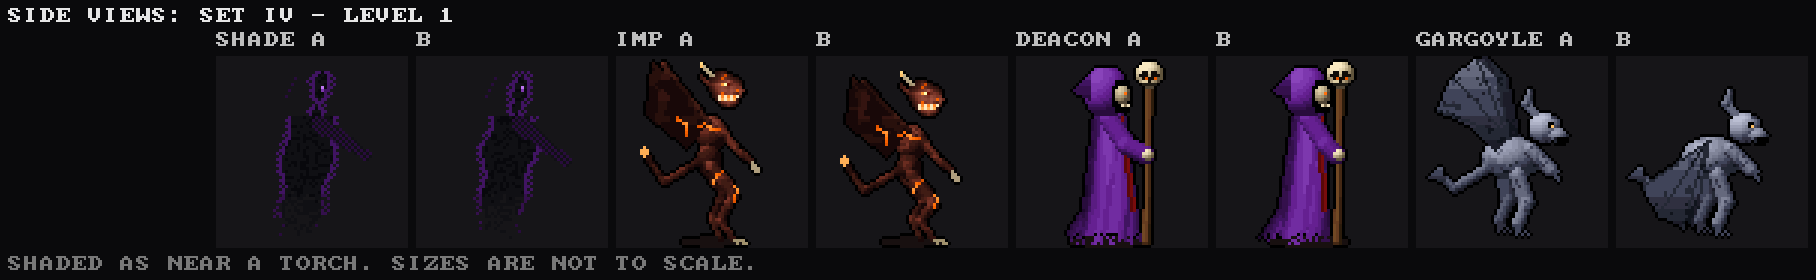
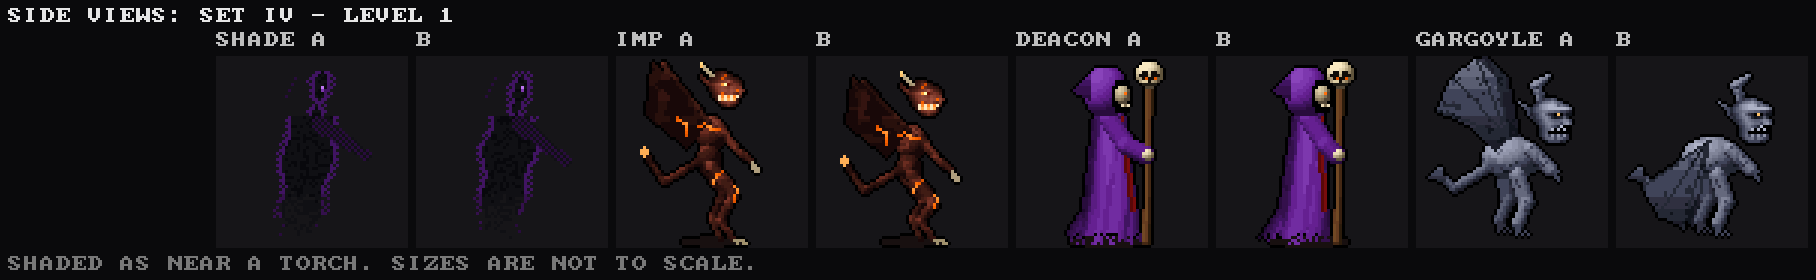
Art pass: the gargoyle, a grotesque in the walls' own stone
A hand-drawn face (GARG_FACE, GARG_SIDE): two heavy brow ridges over deep
eyes, a flat snout, a lipless snarl with tusks, the mouth a rainspout's;
fin ears swept back and bull's horns, the right one broken. Slab shoulders
and a hunched chest; on its plinth its wings fold up round it like a cloak,
in flight they spread, torn. Rain has stained it from the eyes and mouth
down and lichen sits in its hollows; awake, its cracks are lit. Perched, its
eyes are blank stone. Its ranks are its stone: moss, frost, rust, black
basalt veined with a cold light, gold.

UBSan found a pointer formed past the sprite in the rain's loop; fixed.
ASan clean; a dream run's events are unchanged.

Claude-Session: https://claude.ai/code/session_015ifzKucNXU48yoPLrSFXC9

Changed region(s): [[0.9251, 0.2571, 0.9868, 0.5143], [0.8326, 0.2571, 0.8634, 0.5143]]

diff --git a/src/crawl_art.c b/src/crawl_art.c
@@ -997,7 +997,7 @@ static void grid_stamp(const char *const *g, int w, int h, int x0, int y0, int r
             char ch = g[y][mirror ? w - 1 - x : x];
             int px = x0 + x, py = y0 + y;
             if (ch == '.') continue;
-            if (ch == '@') { cv_eye(px, py, eye); continue; }
+            if (ch == '@') { if (eye) cv_eye(px, py, eye); else cv_px(px, py, (uint8_t)(r1 + 4)); continue; }   /* eye 0: blank, a statue's */
             if (ch == '0') cv_px(px, py, 0);
             else if (ch >= '1' && ch <= '9') cv_px(px, py, (uint8_t)(r1 + ch - '0'));
             else if (ch >= 'a' && ch <= 'f') cv_px(px, py, (uint8_t)(r1 + ch - 'a' + 10));
@@ -4929,83 +4929,164 @@ static void spr_ember(int id, int frame) {
     cv_store(id);
 }
 
-/* The gargoyle: carved stone (R_STONE, PF_STONE: it is the same stone as the walls), winged and
- * horned. pose 0 perched on its plinth, asleep (the statue in an alcove looks just like it); 1-2
- * flying, wings up and down; 3 swooping, claws first; 4 broken. */
+/* The gargoyle (docs/InitialArtPass.md section 8): a grotesque in the walls' own stone (R_STONE, PF_STONE), weathered: a
+ * heavy brow over deep-set eyes, a flat snout, a lipless snarl with tusks, the mouth a rainspout's; fin ears swept back,
+ * bull's horns curving forward; slab shoulders, wings of bat's bones, torn. Rain has stained it from the eyes and mouth
+ * down, lichen sits in its hollows. pose 0 perched on its plinth, asleep, its eyes blank stone (and the statues in the
+ * alcoves are this); 1-2 flying, wings up and down, its cracks alight; 3 swooping, claws first; 4 broken. */
+static const char *const GARG_FACE[17] = {
+    "...4567d7654...", "..45799d99875..", ".356ab989ba653.", "36bcddc8cddcb63", "245677666776542", ".310@04340@013.",
+    ".4628347438264.", "..57289998275..", "..46289a98264..", ".3462708072643.", ".3a635787536a3.", ".3e20d0d0d02e3.",
+    ".2d000000000d2.", ".3c06b0b0b60c3.", "..4a789a987a4..", "...357898753...", "....2456542....",
+};
+static const char *const GARG_SIDE[15] = {
+    "....45676.....", "..4689ab976...", ".469bcddcb975.", "3579bcddddddc8", "35789988776542", "2468a7420@0431",
+    ".3579a8742373.", "..468a98778a96", "..3579a9889ab7", "...4689753e00.", "...3578d0d0d0.", "...3570000000.",
+    "...3586b6b6b4.", "....4789a9864.", ".....3566543..",
+};
+static void garg_head(float hy, int awake) {                      /* horns, fin ears, then the face */
+    for (int s = -1; s <= 1; s += 2) {
+        float ex[6] = { 32 + s * 6.0f, hy + 5, 32 + s * 13.0f, hy + 1, 32 + s * 7.0f, hy + 10 };   /* a fin ear, swept back */
+        cv_poly(ex, 3, R_STONE, 0.15f, 0.55f, hy + 1, 9);
+        cv_line(32 + s * 7.0f, hy + 6, 32 + s * 11.0f, hy + 3, sh(R_STONE, 0.1f));
+        cv_capsule(32 + s * 5.0f, hy + 2, 32 + s * 10.0f, hy - 2, 1.7f, R_STONE, 0.2f, 0.8f);   /* a bull's horn, out and forward */
+        cv_capsule(32 + s * 10.0f, hy - 2, 32 + s * 13.0f, hy + 1, 1.3f, R_STONE, 0.2f, 0.75f);
+        if (s < 0) cv_capsule(32 + s * 13.0f, hy + 1, 32 + s * 12.5f, hy + 4, 0.9f, R_STONE, 0.25f, 0.8f);   /* the right one broken short */
+    }
+    grid_stamp(GARG_FACE, 15, 17, 25, (int)hy, R_STONE, R_STONE, awake ? (uint8_t)(R_FLAME + 12) : 0, 0);
+}
+static void garg_wing_front(int s, float sx, float sy, float wx, float wy, float tips[3][2], float lo, float hi) {   /* membrane, struts, a torn hem */
+    for (int f = 0; f < 3; f++) {
+        float nx = f < 2 ? tips[f + 1][0] : sx, ny = f < 2 ? tips[f + 1][1] : sy + 6.0f;
+        float m[8] = { wx, wy, tips[f][0], tips[f][1], nx, ny, sx, sy };
+        cv_poly(m, 4, R_STONE, lo, hi, wy < tips[f][1] ? wy : tips[f][1], 34);
+        cv_flat((tips[f][0] + nx) * 0.5f, (tips[f][1] + ny) * 0.5f + 1.2f, 1.8f, 1.6f, C_CLEAR);   /* a scallop torn out */
+    }
+    cv_capsule(sx, sy, wx, wy, 1.6f, R_STONE, lo + 0.1f, hi + 0.2f);
+    for (int f = 0; f < 3; f++) cv_capsule(wx, wy, tips[f][0], tips[f][1], 0.8f, R_STONE, lo + 0.05f, hi + 0.1f);
+    cv_line(wx, wy, wx + s * 1.0f, wy - 3.0f, sh(R_STONE, 0.7f));   /* the claw at its wrist */
+}
+static void garg_weather(int awake, uint32_t seed) {               /* rain stains, lichen, chips; and awake, its cracks lit */
+    for (int y = 0; y < TS; y++)
+        for (int x = 0; x < TS; x++) {
+            uint8_t *p = &cv_sprite[y * TS + x];
+            if (*p <= R_STONE || *p >= R_STONE + 16 || y >= 52) continue;
+            float n = fbm(x / 4.0f, y / 4.0f, 16, seed);
+            int face = x >= 25 && x < 40 && y >= 2 && y < 34;
+            if (n < (face ? 0.18f : 0.3f)) *p = (uint8_t)(*p - 2 < R_STONE + 1 ? R_STONE + 1 : *p - 2);
+            else if (!face && h01(x, y, seed + 2) > 0.965f) *p = (uint8_t)(*p - 4 < R_STONE + 1 ? R_STONE + 1 : *p - 4);
+            if (*p <= R_STONE + 4 && h01(x, y, seed + 4) > 0.86f) *p = sh(R_MOSS, 0.12f + 0.12f * h01(x, y, seed + 5));   /* lichen in the hollows */
+        }
+    for (int k = 0; k < 4; k++) {                                  /* rain, run down from the eyes and the mouth's corners */
+        static const int SRC[4] = { 29, 35, 27, 37 };
+        int x = SRC[k], y = 5;
+        while (y < TS && cv_sprite[y * TS + x] != 0) y++;          /* below the first dark of the face */
+        for (int j = 1; j < 9 + (k & 1) * 4 && y + j < TS; j++) {
+            uint8_t *p = &cv_sprite[(y + j) * TS + x];
+            if (*p > R_STONE && *p < R_STONE + 16) *p = (uint8_t)(*p - 3 < R_STONE + 1 ? R_STONE + 1 : *p - 3);
+        }
+    }
+    if (awake)
+        for (int k = 0; k < 4; k++) {                              /* the cracks alight, dimly, as it wakes */
+            float x = 20 + 24 * h01(k, 1, seed + 7), y = 30 + 16 * h01(k, 2, seed + 7), a = h01(k, 3, seed + 7) * TAU_F;
+            for (int i = 0; i < 7; i++) {
+                a += (h01(k, i + 4, seed + 7) - 0.5f) * 1.2f; x += cosf(a); y += sinf(a);
+                uint8_t c = cv_sprite[(int)y * TS + (int)x];
+                if (c > R_STONE && c < R_STONE + 16) cv_px((int)x, (int)y, (uint8_t)(R_FLAME + 3 + (i & 1) * 2));
+            }
+        }
+}
 static void spr_gargoyle(int id, int pose) {
     cv_begin(cv_sprite, TS, TS);
-    if (pose == 4) {
+    if (pose == 4) {                                               /* broken: rubble, a wing, the face looking up */
         cv_flat(32, 61.5f, 24, 2.5f, R_WARM + 1);
-        for (int i = 0; i < 9; i++) {
-            float x = 32 + (h01(i, 1, 541) - 0.5f) * 40, y = 56 + 6 * h01(i, 2, 541);
-            cv_ellipse(x, y, 2.5f + 3.0f * h01(i, 3, 541), 2.0f + 2.0f * h01(i, 4, 541), R_STONE, 0.1f, 0.65f);
+        for (int i = 0; i < 10; i++) {
+            float x = 32 + (h01(i, 1, 541) - 0.5f) * 44, y = 56 + 6 * h01(i, 2, 541);
+            cv_ellipse(x, y, 2.5f + 3.0f * h01(i, 3, 541), 2.0f + 2.0f * h01(i, 4, 541), R_STONE, 0.1f, 0.6f);
         }
-        float wv[8] = { 34, 50, 52, 44, 50, 54, 38, 57 };          /* a broken wing */
-        cv_poly(wv, 4, R_STONE, 0.15f, 0.55f, 44, 13);
-        cv_ellipse(18, 53, 5.5f, 5.0f, R_STONE, 0.15f, 0.7f);      /* the head, face up */
-        cv_capsule(15, 48, 13, 44, 1.2f, R_STONE, 0.2f, 0.6f);
+        float wv[8] = { 34, 50, 54, 42, 52, 54, 38, 57 };
+        cv_poly(wv, 4, R_STONE, 0.12f, 0.5f, 42, 15);
+        grid_stamp(GARG_FACE, 15, 17, 4, 44, R_STONE, R_STONE, 0, 0);
         cv_outline(0); cv_store(id); return;
     }
     int perch = pose == 0, swoop = pose == 3;
-    float by = perch ? 0.0f : -6.0f;                                /* it rides higher when it flies */
-    if (perch) {                                                    /* the plinth */
+    float hy = perch ? 13.0f : 3.0f;                               /* the head's top: lowered asleep, up awake */
+    if (perch) {                                                   /* the plinth */
         for (int y = 52; y < 64; y++)
-            for (int x = 18; x <= 46; x++) {
-                float nx = (x + 0.5f - 32) / 14.0f;
-                stone_px(x, y, nx, y < 54 ? 0.15f : 0.0f, 543);
-            }
-    }
-    /* wings: folded round it, or spread */
-    for (int s = -1; s <= 1; s += 2) {
-        if (perch) {
-            float wv[8] = { 32 + s * 8, 26, 32 + s * 17, 18, 32 + s * 16, 46, 32 + s * 9, 50 };
-            cv_poly(wv, 4, R_STONE, 0.1f, 0.5f, 18, 32);
-        } else {
-            float tip = pose == 1 ? -2.0f : (pose == 2 ? 26.0f : 6.0f), out = swoop ? 22.0f : 30.0f;
-            float wv[12] = { 32 + s * 6, 30 + by, 32 + s * 14, 16 + by + tip * 0.4f, 32 + s * out, 6 + by + tip, 32 + s * (out - 3), 22 + by + tip * 0.6f,
-                             32 + s * (out - 6), 30 + by + tip * 0.4f, 32 + s * 10, 40 + by };
-            cv_poly(wv, 6, R_STONE, 0.1f, 0.6f, 6 + by + tip, 34);
-            for (int r = 0; r < 3; r++)                             /* ribs of the wing */
-                cv_line(32 + s * 8, 30 + by, 32 + s * (out - r * 4), 8 + by + tip + r * 6, sh(R_STONE, 0.15f));
+            for (int x = 18; x <= 46; x++) stone_px(x, y, (x + 0.5f - 32) / 14.0f, y < 54 ? 0.15f : 0.0f, 543);
+        for (int s = -1; s <= 1; s += 2) {                         /* wings folded up round it, high as a cloak */
+            float wv[10] = { 32 + s * 9.0f, hy + 20, 32 + s * 17.0f, hy - 6, 32 + s * 20.0f, hy + 6, 32 + s * 17.0f, 51, 32 + s * 10.0f, 51 };
+            cv_poly(wv, 5, R_STONE, 0.08f, 0.45f, hy - 6, 50);
+            cv_line(32 + s * 17.0f, hy - 6, 32 + s * 16.0f, 50, sh(R_STONE, 0.12f));
+            cv_line(32 + s * 18.0f, hy + 2, 32 + s * 12.0f, 50, sh(R_STONE, 0.15f));
+        }
+        cv_ellipse(32, hy + 21, 11.0f, 4.0f, R_STONE, 0.2f, 0.75f);   /* slab shoulders, a hunched back */
+        cv_ellipse(32, hy + 29, 8.0f, 8.0f, R_STONE, 0.15f, 0.65f);
+        for (int s = -1; s <= 1; s += 2) {                         /* haunches folded, claws over the plinth's edge, hands on it */
+            cv_ellipse(32 + s * 8.0f, 45, 4.5f, 5.0f, R_STONE, 0.15f, 0.7f);
+            cv_capsule(32 + s * 8.0f, 48, 32 + s * 8.5f, 52, 2.2f, R_STONE, 0.15f, 0.6f);
+            for (int c = -1; c <= 1; c++) cv_line(32 + s * 8.5f + c * 1.4f, 52, 32 + s * 8.5f + c * 1.8f, 55, sh(R_STONE, 0.3f));
+            cv_capsule(32 + s * 9.0f, hy + 22, 32 + s * 4.0f, 46, 2.2f, R_STONE, 0.2f, 0.7f);
+            for (int c = -1; c <= 1; c++) cv_line(32 + s * 4.0f, 46, 32 + s * 4.0f + c * 1.3f, 50, sh(R_STONE, 0.3f));
+        }
+    } else {
+        float tip = pose == 1 ? -4.0f : (pose == 2 ? 14.0f : 4.0f), out = swoop ? 22.0f : 30.0f;
+        for (int s = -1; s <= 1; s += 2) {                         /* the wings, spread (swept back in a swoop) */
+            float tips[3][2] = { { 32 + s * out, hy + 6 + tip }, { 32 + s * (out - 4.0f), hy + 20 + tip * 0.5f }, { 32 + s * (out - 12.0f), hy + 28 } };
+            garg_wing_front(s, 32 + s * 8.0f, hy + 20, 32 + s * (out - 10.0f), hy + tip * 0.6f, tips, 0.08f, 0.4f);
+        }
+        for (int s = -1; s <= 1; s += 2) {                         /* legs: hanging, or thrust forward with the talons out */
+            float kx = 32 + s * 8.0f, ky = swoop ? hy + 33 : hy + 40, fx = 32 + s * (swoop ? 11.0f : 7.0f), fy = swoop ? hy + 42 : hy + 50;
+            cv_capsule(32 + s * 5.0f, hy + 33, kx, ky, 3.0f, R_STONE, 0.15f, 0.7f);
+            cv_capsule(kx, ky, fx, fy, 2.2f, R_STONE, 0.15f, 0.65f);
+            for (int c = -1; c <= 1; c++) cv_line(fx, fy, fx + c * 2.0f, fy + 3.5f, sh(R_STONE, 0.35f));
+        }
+        cv_ellipse(32, hy + 21, 11.0f, 4.0f, R_STONE, 0.2f, 0.8f);  /* slab shoulders, the chest */
+        cv_ellipse(32, hy + 28, 8.0f, 8.5f, R_STONE, 0.15f, 0.7f);
+        for (int r = 0; r < 3; r++) cv_line(27, hy + 25 + r * 3, 37, hy + 25 + r * 3, sh(R_STONE, 0.12f));
+        for (int s = -1; s <= 1; s += 2) {                         /* arms: claws ahead in a swoop, else low */
+            float ex = 32 + s * (swoop ? 15.0f : 13.0f), ey = swoop ? hy + 16 : hy + 29, hx2 = 32 + s * (swoop ? 14.0f : 11.0f), hy2 = swoop ? hy + 8 : hy + 37;
+            cv_capsule(32 + s * 10.0f, hy + 21, ex, ey, 2.3f, R_STONE, 0.2f, 0.75f);
+            cv_capsule(ex, ey, hx2, hy2, 1.9f, R_STONE, 0.2f, 0.7f);
+            for (int c = -1; c <= 1; c++) cv_line(hx2, hy2, hx2 + c * 1.6f, hy2 + (swoop ? -3.5f : 3.5f), sh(R_STONE, 0.35f));
         }
     }
-    /* legs and claws */
-    for (int s = -1; s <= 1; s += 2) {
-        float kx = 32 + s * 8, ky = perch ? 46.0f : 46.0f + by, fx = 32 + s * 7, fy = perch ? 52.0f : (swoop ? 40.0f + by : 56.0f + by);
-        if (swoop) { kx = 32 + s * 6; ky = 38 + by; fx = 32 + s * 9; fy = 48 + by; }
-        cv_capsule(32 + s * 5, 40 + by * (perch ? 0 : 1), kx, ky, 3.0f, R_STONE, 0.2f, 0.75f);
-        cv_capsule(kx, ky, fx, fy, 2.2f, R_STONE, 0.2f, 0.7f);
-        for (int c = -1; c <= 1; c++) cv_line(fx, fy, fx + c * 2.0f, fy + 3.5f, sh(R_STONE, 0.35f));
-    }
-    cv_ellipse(32, 36 + (perch ? 0 : by), 9.0f, 10.0f, R_STONE, 0.2f, 0.85f);   /* the body, hunched */
-    for (int s = -1; s <= 1; s += 2) {                              /* arms: on its knees, or reaching */
-        float hx = swoop ? 32 + s * 12.0f : 32 + s * 6.0f, hy = swoop ? 30.0f + by : (perch ? 44.0f : 42.0f + by);
-        cv_capsule(32 + s * 8, 30 + (perch ? 0 : by), hx, hy, 2.2f, R_STONE, 0.25f, 0.8f);
-        for (int c = -1; c <= 1; c++) cv_line(hx, hy, hx + c * 1.5f + s * 1.0f, hy + (swoop ? -3.0f : 3.0f), sh(R_STONE, 0.35f));
-    }
-    float hx = 32, hy = (perch ? 22.0f : 20.0f + by) + (perch ? 2.0f : 0.0f);   /* the head: lowered asleep, up awake */
-    for (int s = -1; s <= 1; s += 2) {                              /* horns, curling back */
-        cv_capsule(hx + s * 4, hy - 4, hx + s * 8, hy - 9, 1.6f, R_STONE, 0.2f, 0.75f);
-        cv_capsule(hx + s * 8, hy - 9, hx + s * 7, hy - 13, 1.1f, R_STONE, 0.2f, 0.7f);
-    }
-    cv_ellipse(hx, hy, 6.5f, 6.0f, R_STONE, 0.25f, 0.95f);
-    cv_ellipse(hx, hy + 4, 4.5f, 2.8f, R_STONE, 0.2f, 0.8f);       /* muzzle */
-    for (int s = -1; s <= 1; s += 2) {
-        cv_flat(hx + s * 2.5f, hy - 1, 1.5f, 1.0f, perch ? sh(R_STONE, 0.1f) : 0);
-        if (!perch) cv_eye((int)(hx + s * 2.5f), (int)(hy - 1), (uint8_t)(R_FLAME + 12));
-    }
-    cv_flat(hx, hy + 5, swoop ? 3.0f : 2.0f, swoop ? 1.6f : 0.6f, 0);
-    if (swoop) for (int i = -1; i <= 1; i += 2) cv_px((int)hx + i * 2, (int)hy + 4, sh(R_STONE, 0.9f));
-    for (int y = 0; y < TS; y++)                                    /* weathering on the stone */
-        for (int x = 0; x < TS; x++) {
-            uint8_t *p = &cv_sprite[y * TS + x];
-            if (*p < R_STONE || *p >= R_STONE + 16 || (perch && y >= 52)) continue;
-            float n = fbm(x / 4.0f, y / 4.0f, 16, 545);
-            if (n < 0.3f) *p = (uint8_t)(*p - 2 < R_STONE + 1 ? R_STONE + 1 : *p - 2);
-            else if (h01(x, y, 547) > 0.96f) *p = (uint8_t)(*p - 4 < R_STONE + 1 ? R_STONE + 1 : *p - 4);
-        }
+    garg_head(hy, !perch);
+    garg_weather(!perch, 545);
     cv_outline(0);
     cv_store(id);
+}
+
+/* the gargoyle's ranks are its stone (docs/InitialArtPass.md section 8): II moss on limestone and its wings torn, III
+ * frost-glazed and a horn chipped, IV red with rust run down it and a wing cracked, V black basalt veined with a cold
+ * light under an iron collar, gilded marble with gold in its veins. Not on the statue: a statue's rank doesn't show. */
+static void garg_dress(int id) {
+    for (int r = RK_II; r < NRANK; r++) {
+        dress_begin(id);
+        for (int y = 0; y < 40; y++)                               /* torn wings from II: dark rents in the hem */
+            for (int x = 0; x < TS; x++)
+                if ((x < 20 || x > 44) && base_on(x, y) && !base_on(x, y + 1) && h01(x, y, 451) < 0.3f) { cv_px(x, y, 0); cv_px(x, y - 1, 0); }
+        if (r == RK_II) kit_moss(0.38f, 3, 453);
+        if (r == RK_III) kit_frost(0.85f, 455);
+        if (r >= RK_III && r != RK_GILDED) { cv_px(42, 3, 0); cv_px(43, 2, 0); cv_px(43, 3, 0); }   /* a chip off the horn */
+        if (r == RK_IV)                                            /* rust run down it */
+            for (int k = 0; k < 7; k++) {
+                int x = 22 + (int)(h01(k, 1, 457) * 20.0f), y0 = 18 + (int)(h01(k, 2, 457) * 14.0f);
+                for (int j = 0; j < 6 + (int)(h01(k, 3, 457) * 10.0f); j++) if (base_on(x, y0 + j)) cv_px(x, y0 + j, (uint8_t)(R_BRICK + 4 + (j < 3 ? 2 : 0)));
+            }
+        if (r >= RK_IV && r != RK_GILDED) { cv_line(8, 14, 16, 22, 0); cv_line(16, 22, 13, 28, 0); }   /* a wing cracked through */
+        if (r == RK_V || r == RK_GILDED)                           /* veins: a cold light in the basalt, or gold in the marble */
+            for (int y = 0; y < 52; y++)
+                for (int x = 0; x < TS; x++) {
+                    uint8_t b = base_c(x, y);
+                    if (b <= R_STONE || b >= R_STONE + 16) continue;
+                    if (fabsf(fbm(x / 5.0f, y / 5.0f, 16, 459) - 0.5f) < 0.022f)   /* the noise's ridges: thin veins, most of them dim */
+                        cv_px(x, y, r == RK_V ? (uint8_t)(R_GLOW + (h01(x, y, 461) < 0.25f ? 12 : 6 + (int)(h01(x, y, 465) * 3.0f))) : (uint8_t)(R_GOLD + 8 + (int)(h01(x, y, 461) * 4.0f)));
+                }
+        if (r == RK_V) { for (int x = 26; x <= 38; x++) { cv_px(x, 21, sh(R_IRON, 0.55f)); cv_px(x, 22, sh(R_IRON, 0.25f)); } kit_chain(37, 22, 44, 36, 2.0f, R_IRON); }
+        if (r == RK_GILDED) { kit_gold(R_STONE, 0.45f, 463); kit_chain(26, 22, 38, 22, 1.5f, R_GOLD); }
+        dress_store(id, r, R_STONE);
+    }
 }
 
 /* ------------------------------------------------------------------ */
@@ -5926,12 +6007,10 @@ static void spr_garg_side(int id, int down) {
     cv_capsule(38, 31, 45, 38, 2.2f, R_STONE, 0.25f, 0.8f);        /* an arm, claws ahead */
     for (int c = -1; c <= 1; c++) cv_line(45, 38, 47.5f, 40.0f + c * 1.5f, sh(R_STONE, 0.35f));
     garg_wing(down, 0.0f, 0.0f, 0.12f, 0.6f);                       /* the near wing */
-    cv_capsule(41, 21, 37, 16, 1.6f, R_STONE, 0.2f, 0.75f);        /* a horn, curling back */
-    cv_capsule(37, 16, 38, 12, 1.1f, R_STONE, 0.2f, 0.7f);
-    cv_ellipse(43, 24, 5.5f, 5.0f, R_STONE, 0.25f, 0.95f);         /* the head, and its muzzle */
-    cv_ellipse(47.5f, 26.5f, 3.2f, 2.3f, R_STONE, 0.2f, 0.8f);
-    cv_flat(45, 23, 1.2f, 1.0f, 0); cv_px(45, 23, (uint8_t)(R_FLAME + 12));
-    cv_flat(48.5f, 28, 2.0f, 0.6f, 0);
+    { float ev[6] = { 41, 19, 34, 15, 40, 23 }; cv_poly(ev, 3, R_STONE, 0.15f, 0.55f, 15, 8); }   /* a fin ear, swept back */
+    cv_capsule(42, 15, 40, 10, 1.7f, R_STONE, 0.2f, 0.8f);         /* a bull's horn, up and forward */
+    cv_capsule(40, 10, 44, 7, 1.2f, R_STONE, 0.2f, 0.75f);
+    grid_stamp(GARG_SIDE, 14, 15, 38, 14, R_STONE, R_STONE, (uint8_t)(R_FLAME + 12), 0);
     for (int y = 0; y < TS; y++)                                    /* weathering on the stone */
         for (int x = 0; x < TS; x++) {
             uint8_t *p = &cv_sprite[y * TS + x];
@@ -9222,7 +9301,7 @@ void crawl_art_init(void) {
     spr_shade(SP_SHADE_A, 0.0f, 0); spr_shade(SP_SHADE_B, PI_F, 1); spr_shade(SP_SHADE_TOUCH, 1.0f, 2); spr_shade(SP_SHADE_D, 2.0f, 3);
     for (int f = 0; f < 4; f++) { spr_imp(SP_IMP_A + f, f); if (f < 3) imp_dress(SP_IMP_A + f); }
     spr_ember(SP_EMBER_A, 0); spr_ember(SP_EMBER_B, 1);
-    for (int f = 0; f < 5; f++) spr_gargoyle(SP_GARG_PERCH + f, f);
+    for (int f = 0; f < 5; f++) { spr_gargoyle(SP_GARG_PERCH + f, f); if (f >= 1 && f <= 3) garg_dress(SP_GARG_PERCH + f); }
     spr_candlestand(SP_CANDLESTAND_A, 0); spr_candlestand(SP_CANDLESTAND_B, 1);
     spr_broken_arms(); spr_mound(SP_MOUND, 0); spr_mound(SP_PIT, 1);
     spr_puddle(SP_PUDDLE_A, 0); spr_puddle(SP_PUDDLE_B, 1); spr_stalag();

diff --git a/docs/InitialArtPass.md b/docs/InitialArtPass.md
@@ -733,7 +733,8 @@ of usage leaves the next one a true account. **Read it before anything else in t
 | 7. The wall skull | done, for the owner's eye | `spr_wskull` (the master skull three times over by `grid_scale3`, Scale3x; grain and cracks at the finer scale; fire filling the sockets, then the mouth, the nose and the cracks; broken, split with the right half dropped), `wskull_dress` (II moss, III frost, IV tears of old blood, V char and an iron crown, gilded gold and a mask), `spr_wskull_side`; review `docs/artpass/review/wskull.png`, `wskull_game.png` | asleep, ember eyes (A11), seen at 13 cells in the dark. The old `skull_side` is gone. Frame time unchanged (benched back to back against the commit before); events unchanged |
 | Checks after unit 7 | done | CI run 41221041012 on the branch (started by hand, `workflow_dispatch`): the Windows build compiled, the smoke test passed. ASan (`-fsanitize=address,undefined`, as `CLAUDE.md` gives it): a 400 s dream run at level 21 with every creature at rank IV, six kinds staged at gilded in the dark and fog, and a scripted player at level 13: clean | the art has not been seen on a real screen, nor under Wine |
 | 8. The imp | done, for the owner's eye | `IMP_HEAD` (17 by 17), `IMP_SIDE` (15 by 15), `imp_crust`, `spr_imp`, `spr_imp_side`, `imp_dress` in `src/crawl_art.c`; `grid_stamp` (any hand-drawn grid: hex the body's ramp, g-v a second ramp, A-P the fire, 0, @, .); review `docs/artpass/review/imp.png`, `imp_game.png`, `sides4.png` | re-proportioned (A4 c): no pot belly; a narrow chest, wiry arms to the knee with talons, reverse-jointed legs, ragged bat wings behind, a tail with an ember; the head a horned, torn-eared, long-muzzled face with slit eyes and a lit grin of needles, the right horn broken. Ranks: II mould and torn wings, III frost and a chipped horn, IV the fissures opened and a wound in the chest, V black crust veined all over with fire under an iron collar and chain, gilded gold in every crack. Events unchanged, ASan clean |
-| 9. The gargoyle | next | `spr_gargoyle`, `spr_garg_side` | section 8's brief: a grotesque's heavy brow and snarl, tusks, fin ears, bull's horns, torn and stained wings; a statue with blank stone eyes until it wakes; ranks as stone (moss limestone, frosted granite, red sandstone, basalt veined with light, gold-veined marble) |
+| 9. The gargoyle | done, for the owner's eye | `GARG_FACE` (15 by 17), `GARG_SIDE` (14 by 15), `garg_head` (bull's horns, the right one broken short; fin ears), `garg_wing_front`, `garg_weather` (rain stains from the eyes and mouth, lichen in the hollows, the cracks alight once awake), `spr_gargoyle`, `garg_dress`, and the side view's head in `spr_garg_side`; `grid_stamp` draws `@` as blank stone when its eye is 0; review `docs/artpass/review/gargoyle.png`, `gargoyle_game.png`, `gargoyle_v_game.png`, `sides4.png` | re-proportioned: slab shoulders, a hunched chest, wings folded high round it on its plinth like a cloak, spread and torn in flight. Perched, its eyes are blank stone and nothing shows in the dark (A11); the statues in the alcoves are the same sprite. Ranks: II moss and torn wings, III frost and a chipped horn, IV rust run down it and a wing cracked through, V black basalt with thin veins of cold light under an iron collar, gilded gold in its veins. A bounds fault in the rain's loop was found by UBSan and fixed before the commit; ASan clean after; events unchanged |
+| 10. The Drowned | next | `spr_drowned`, `drowned_pool`, `spr_drowned_side` | section 8's brief: a gaunt, too-tall body round a swollen belly; waxen green-white skin (never the walls' stone ramp); hair plastered flat; a black slack mouth; a rope and a weight at the ankle; small, cold, bright eyes; it drips. Its rise and burst kept |
 
 ### How to pick it up
 
